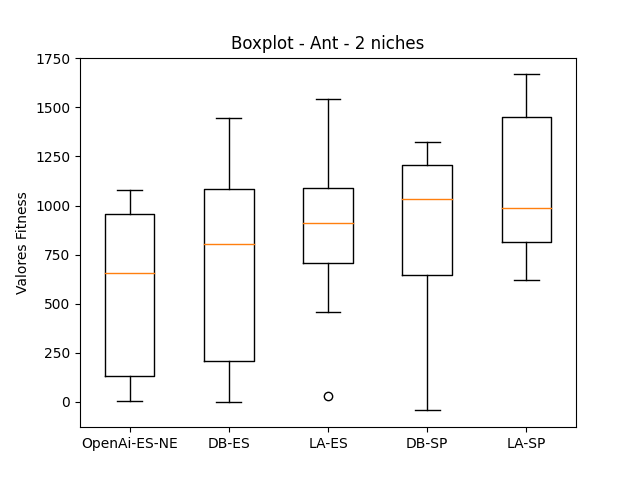
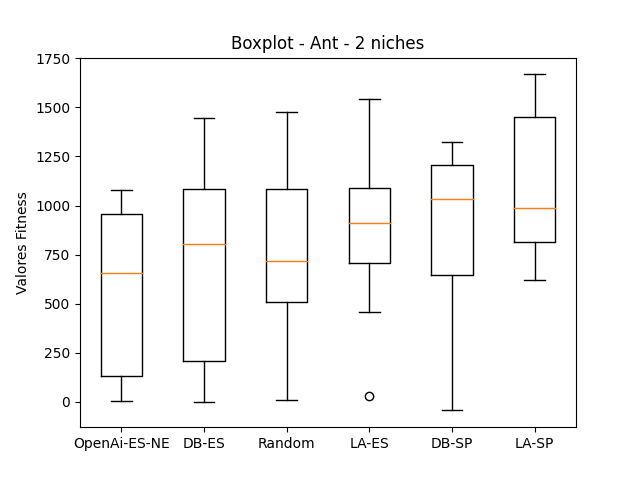
new result images

diff --git a/results/ant/2_50/boxsplot.py b/results/ant/2_50/boxsplot.py
@@ -2,16 +2,17 @@ import matplotlib.pyplot as plt
 
 brenda = [569.79 , 967.32 , 73.61  , 13.81  , 1078.41, 745.15 , 916.23 , 5.91 , 1010.00, 301.26 ]
 davi = [897.15 , 714.81 , 1292.23, 1446.27, 661.58 , 17.92  , 57.24  , -2.33  , 923.54 , 1136.67]
+random_davi = [706.64 , 1476.61, 702.85 , 1251.74, 441.51 , 10.39  , 75.43  , 1108.53, 724.01 , 1006.32]
 larissa = [802.03 , 459.78 , 832.09 , 993.79 , 1099.31, 1544.66, 1053.97, 676.16 , 30.99  , 1222.83]
 super_davi = [1075.94, 299.93 , 905.49 , 1211.24, -43.59 , 992.92 , 1197.40, 562.78 , 1239.50, 1323.91]
 super_larissa = [1668.10, 877.70 , 1409.08, 623.21 , 1467.29, 745.22 , 981.61 , 1473.59, 991.49 , 792.80 ]
 
-data = [brenda,  davi, larissa, super_davi, super_larissa]
+data = [brenda,  davi, random_davi, larissa, super_davi, super_larissa]
 
 fig, ax = plt.subplots()
 ax.boxplot(data)
 
-ax.set_xticklabels(['OpenAi-ES-NE', 'DB-ES', 'LA-ES', 'DB-SP', 'LA-SP'])
+ax.set_xticklabels(['OpenAi-ES-NE', 'DB-ES', 'Random', 'LA-ES', 'DB-SP', 'LA-SP'])
 ax.set_ylabel('Valores Fitness')
 
 plt.title('Boxplot - Ant - 2 niches')

diff --git a/results/walker/3_50/boxsplot.py b/results/walker/3_50/boxsplot.py
@@ -2,16 +2,17 @@ import matplotlib.pyplot as plt
 
 brenda = [12.80 , 11.98 , 74.62 , 471.60, 237.86, 104.35, 372.94, 196.51, 169.33, 324.70]
 davi = [12.60  , 83.13  , 88.45  , 703.30 , 435.81 , 82.70  , 447.04 , 1228.85, 610.88 , 869.95 ]
+random_davi = [12.46  , 888.82 , 1265.24, 505.56 , 825.87 , 720.00 , 526.47 , 1072.33, 1468.38, 1531.24]
 larissa = [718.81 , 614.22 , 920.25 , 848.58 , 588.62 , 160.63 , 1373.55, 199.94 , 854.87 , 870.88 ]
 super_davi = [1210.80, 973.53 , 12.50  , 58.66  , 12.19  , 309.14 , 1002.83, 1443.90, 127.00 , 416.87 ]
 super_larissa = [741.34 , 668.10 , 588.62 , 1369.87, 1642.38, 727.13 , 270.20 , 644.54 , 648.38 , 608.35 ]
 
-data = [brenda,  davi, larissa, super_davi, super_larissa]
+data = [brenda,  davi,random_davi,  larissa, super_davi, super_larissa]
 
 fig, ax = plt.subplots()
 ax.boxplot(data)
 
-ax.set_xticklabels(['OpenAi-ES-NE', 'DB-ES', 'LA-ES', 'DB-SP', 'LA-SP'])
+ax.set_xticklabels(['OpenAi-ES-NE', 'DB-ES', 'Random', 'LA-ES', 'DB-SP', 'LA-SP'])
 ax.set_ylabel('Valores Fitness')
 
 plt.title('Boxplot - Walker - 3 niches')

diff --git a/results/halfcheetah/3_50/boxsplot.py b/results/halfcheetah/3_50/boxsplot.py
@@ -2,17 +2,18 @@ import matplotlib.pyplot as plt
 
 davi_3n_50g = [2626.66, 2122.09, 2185.25, 639.55, 1819.46, 1991.76, 1619.81, 2616.79, 2282.71, 1537.18]
 brenda_3n_50g = [2307.02, 15.11, 14.67, 844.06, 1935.48, 1909.44, 1243.27, 2336.71, 2437.67, 1644.63]
+random = [15.66  , 764.08 , 2192.59, 2586.86, 2513.57, 2267.97, 1351.68, 2289.44, 2352.87, 2489.71]
 larissa_333 = [1558.69, 2323.05, 2665.83, 1912.86, 2647.51, 1607.58, 1052.73, 1231.22, 1001.41, 1861.34]
 
 
-data = [davi_3n_50g,  brenda_3n_50g, larissa_333]
+data = [davi_3n_50g,random,  brenda_3n_50g, larissa_333]
 
 fig, ax = plt.subplots()
 ax.boxplot(data)
 
-ax.set_xticklabels(['DB-Es', 'OpenAi-Es-Ne', 'LA-Es'])
+ax.set_xticklabels(['DB-Es','Random', 'OpenAi-Es-Ne', 'LA-Es'])
 ax.set_ylabel('Valores Fitness')
 
 plt.title('Boxplot - 3 niches')
 #plt.figure(figsize=)
-plt.savefig('3_50.png')
+plt.savefig('halfcheetah_3_50.png')

diff --git a/results/humanoid/10_50/boxsplot.py b/results/humanoid/10_50/boxsplot.py
@@ -1,0 +1,20 @@
+import matplotlib.pyplot as plt
+
+brenda = [116.69, 113.75, 116.18, 132.42, 132.85, 124.11, 108.69, 118.28, 127.42, 170.18]
+davi = [123.39, 193.10, 125.09, 163.31, 146.97, 125.62, 126.27, 129.18, 119.51, 153.67]
+larissa = [65.95, 64.92, 73.95, 80.90, 78.50, 114.25, 74.55, 79.96, 85.58, 79.67]
+super_davi = [99.18, 114.86, 118.14, 98.91, 146.47, 124.34, 129.81, 128.04, 107.57, 103.63]
+super_larissa = [115.23, 108.48, 118.78, 105.96, 89.56, 92.35, 105.24, 85.52, 104.39, 96.71]
+
+
+data = [brenda, davi, larissa, super_davi, super_larissa]
+
+fig, ax = plt.subplots()
+ax.boxplot(data)
+
+ax.set_xticklabels(['OpenAi-ES-NE', 'DB-ES', 'LA-ES', 'DB-SP', 'LA-SP'])
+ax.set_ylabel('Valores Fitness')
+
+plt.title('Boxplot - Humanoid - 10 niches')
+#plt.figure(figsize=)
+plt.savefig('humanoid_10_50.png')

diff --git a/results/humanoid/2_50/boxsplot.py b/results/humanoid/2_50/boxsplot.py
@@ -1,0 +1,20 @@
+import matplotlib.pyplot as plt
+
+davi = [77.46, 93.48, 96.05, 89.34, 147.01, 89.90, 90.36, 78.90, 163.99, 83.42]
+brenda = [126.23, 108.51, 137.61, 124.77, 154.05, 96.18 , 94.60 , 82.88 , 109.12, 150.39]
+larissa = [100.03, 86.54, 110.25, 99.75, 79.76, 103.34, 82.82, 93.66, 111.67, 99.00]
+super_davi = [109.45, 91.32, 105.44, 91.58, 157.61, 93.97, 148.25, 68.43, 94.94, 139.68]
+super_larissa = [105.24, 96.00, 125.61, 104.93, 84.16, 87.92, 82.53, 83.78, 102.25, 83.78, 103.41]
+
+
+data = [brenda, davi, larissa, super_davi, super_larissa]
+
+fig, ax = plt.subplots()
+ax.boxplot(data)
+
+ax.set_xticklabels(['OpenAi-ES-NE', 'DB-ES', 'LA-ES', 'DB-SP', 'LA-SP'])
+ax.set_ylabel('Valores Fitness')
+
+plt.title('Boxplot - Humanoid - 2 niches')
+#plt.figure(figsize=)
+plt.savefig('humanoid_2_50.png')

diff --git a/results/humanoid/5_50/boxsplot.py b/results/humanoid/5_50/boxsplot.py
@@ -1,0 +1,20 @@
+import matplotlib.pyplot as plt
+
+brenda = [168.22, 122.52, 145.40, 132.72, 162.39, 111.62, 83.33, 111.85, 135.91, 115.34]
+davi = [107.76, 88.20, 134.25, 157.70, 125.61, 93.16, 79.63, 103.18, 99.95, 125.09]
+larissa = [97.39, 99.67, 95.52, 92.19, 114.19, 83.08, 96.99, 67.15, 84.74, 93.24, 92.33]
+super_davi = [93.09, 91.96, 138.22, 126.53, 153.72, 95.95, 86.53, 117.71, 123.76, 105.97]
+super_larissa = [78.57, 82.96, 95.41, 91.06, 74.86, 79.93, 88.43, 77.61, 88.09, 105.19]
+
+
+data = [brenda, davi, larissa, super_davi, super_larissa]
+
+fig, ax = plt.subplots()
+ax.boxplot(data)
+
+ax.set_xticklabels(['OpenAi-ES-NE', 'DB-ES', 'LA-ES', 'DB-SP', 'LA-SP'])
+ax.set_ylabel('Valores Fitness')
+
+plt.title('Boxplot - Humanoid - 5 niches')
+#plt.figure(figsize=)
+plt.savefig('humanoid_5_50.png')

diff --git a/results/humanoid/3_50/boxsplot.py b/results/humanoid/3_50/boxsplot.py
@@ -1,0 +1,20 @@
+import matplotlib.pyplot as plt
+
+davi = [88.41, 92.14, 64.98, 72.99, 96.03, 93.52, 94.96, 93.24, 97.56, 119.04]
+brenda = [96.36, 87.22, 86.60, 115.89, 132.55, 83.72, 128.33, 131.10, 112.52, 165.73]
+larissa = [86.41, 91.30, 93.29, 80.11, 87.66, 107.37, 93.09, 86.08, 98.98, 87.12]
+super_davi = [111.54, 87.06, 128.25, 129.47, 129.02, 145.42, 83.96, 107.25, 152.84, 152.97]
+super_larissa = [84.80, 99.95, 96.90, 94.56, 84.46, 83.54, 103.03, 90.37, 89.42, 102.20]
+
+
+data = [brenda, davi, larissa, super_davi, super_larissa]
+
+fig, ax = plt.subplots()
+ax.boxplot(data)
+
+ax.set_xticklabels(['OpenAi-ES-NE', 'DB-ES', 'LA-ES', 'DB-SP', 'LA-SP'])
+ax.set_ylabel('Valores Fitness')
+
+plt.title('Boxplot - Humanoid - 3 niches')
+#plt.figure(figsize=)
+plt.savefig('humanoid_3_50.png')
